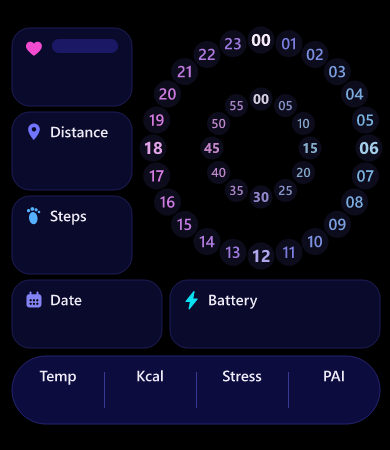
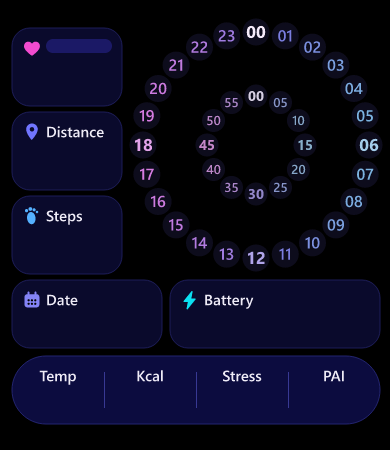
feat: bigger clock

diff --git a/watchface/layout.js b/watchface/layout.js
@@ -31,15 +31,15 @@ export const TEMP_DEGREE = 'temp/deg.png'
 export const TEMP_NEGATIVE = 'temp/neg.png'
 export const TEMP_INVALID = 'temp/dash.png'
 
-/** Top-left corner of the 66x66 hour chip, per hour. */
-export const HOUR_POS = [[228,21],[252,24],[275,34],[294,49],[309,68],[319,91],[322,115],[319,139],[309,162],[294,181],[275,196],[252,206],[228,209],[204,206],[181,196],[162,181],[147,162],[137,139],[134,115],[137,91],[147,68],[162,49],[181,34],[204,24]]
+/** Top-left corner of the 72x72 hour chip, per hour. */
+export const HOUR_POS = [[220,13],[245,16],[268,26],[288,41],[303,61],[313,84],[316,109],[313,134],[303,157],[288,177],[268,192],[245,202],[220,205],[195,202],[172,192],[152,177],[137,157],[127,134],[124,109],[127,84],[137,61],[152,41],[172,26],[195,16]]
 /** Top-left corner of the 60x60 minute chip, per minute. */
-export const MINUTE_POS = [[231,84],[235,84],[238,85],[242,86],[245,87],[248,89],[251,90],[254,93],[256,95],[259,98],[260,101],[262,104],[263,107],[264,111],[265,114],[265,118],[265,122],[264,125],[263,129],[262,132],[260,135],[259,138],[256,141],[254,143],[251,146],[248,147],[245,149],[242,150],[238,151],[235,152],[231,152],[227,152],[224,151],[220,150],[217,149],[214,147],[211,146],[208,143],[206,141],[203,138],[202,135],[200,132],[199,129],[198,125],[197,122],[197,118],[197,114],[198,111],[199,107],[200,104],[202,101],[203,98],[206,95],[208,93],[211,90],[214,89],[217,87],[220,86],[224,85],[227,84]]
+export const MINUTE_POS = [[226,81],[230,81],[233,82],[237,83],[240,84],[243,86],[246,87],[249,90],[251,92],[254,95],[255,98],[257,101],[258,104],[259,108],[260,111],[260,115],[260,119],[259,122],[258,126],[257,129],[255,132],[254,135],[251,138],[249,140],[246,143],[243,144],[240,146],[237,147],[233,148],[230,149],[226,149],[222,149],[219,148],[215,147],[212,146],[209,144],[206,143],[203,140],[201,138],[198,135],[197,132],[195,129],[194,126],[193,122],[192,119],[192,115],[192,111],[193,108],[194,104],[195,101],[197,98],[198,95],[201,92],[203,90],[206,87],[209,86],[212,84],[215,83],[219,82],[222,81]]
 /** Same sprites, positioned around the centred AOD dial. */
-export const AOD_HOUR_POS = [[162,33],[199,38],[234,52],[264,75],[287,105],[301,140],[306,177],[301,214],[287,249],[264,279],[234,302],[199,316],[162,321],[125,316],[90,302],[60,279],[37,249],[23,214],[18,177],[23,140],[37,105],[60,75],[90,52],[125,38]]
+export const AOD_HOUR_POS = [[159,30],[196,35],[231,49],[261,72],[284,102],[298,137],[303,174],[298,211],[284,246],[261,276],[231,299],[196,313],[159,318],[122,313],[87,299],[57,276],[34,246],[20,211],[15,174],[20,137],[34,102],[57,72],[87,49],[122,35]]
 export const AOD_MINUTE_POS = [[165,98],[174,98],[182,100],[190,102],[198,105],[206,109],[213,114],[220,119],[226,125],[231,132],[236,139],[240,147],[243,155],[245,163],[247,171],[247,180],[247,189],[245,197],[243,205],[240,213],[236,221],[231,228],[226,235],[220,241],[213,246],[206,251],[198,255],[190,258],[182,260],[174,262],[165,262],[156,262],[148,260],[140,258],[132,255],[124,251],[117,246],[110,241],[104,235],[99,228],[94,221],[90,213],[87,205],[85,197],[83,189],[83,180],[83,171],[85,163],[87,155],[90,147],[94,139],[99,132],[104,125],[110,119],[117,114],[124,109],[132,105],[140,102],[148,100],[156,98]]
 
-export const HL_HOUR_BOX = 66
+export const HL_HOUR_BOX = 72
 export const HL_MIN_BOX = 60
 
 /**
@@ -47,7 +47,7 @@ export const HL_MIN_BOX = 60
  * heart-rate gauge or battery wave, the tap target, and the name of the system
  * app that a tap opens.
  */
-export const SLOTS = [{"key":"hr","app":"HR","tap":{"src":"hit/120x78.png","x":12,"y":28,"w":120,"h":78},"value":{"x":24,"y":64,"w":54,"h":36,"size":31,"color":0xf24bcf},"unit":{"x":78,"y":76,"w":48,"h":24,"size":15,"color":0xffffff,"text":"BPM"},"meter":{"name":"hr","x":52,"y":39,"w":66,"h":14},"dataType":"HEART"},{"key":"distance","app":"STATUS","tap":{"src":"hit/120x78.png","x":12,"y":112,"w":120,"h":78},"value":{"x":24,"y":148,"w":64,"h":36,"size":31,"color":0xf24bcf},"unit":{"x":88,"y":160,"w":36,"h":24,"size":15,"color":0x7175ff,"text":"KM"},"meter":null,"dataType":"DISTANCE"},{"key":"steps","app":"STATUS","tap":{"src":"hit/120x78.png","x":12,"y":196,"w":120,"h":78},"value":{"x":24,"y":232,"w":96,"h":36,"size":31,"color":0xf24bcf},"unit":null,"meter":null,"dataType":"STEP"},{"key":"date","app":"CALENDAR","tap":{"src":"hit/150x68.png","x":12,"y":280,"w":150,"h":68},"value":{"x":24,"y":306,"w":126,"h":36,"size":29,"color":0xf24bcf},"unit":null,"meter":null,"dataType":null},{"key":"battery","app":"SETTING","tap":{"src":"hit/210x68.png","x":170,"y":280,"w":210,"h":68},"value":{"x":182,"y":306,"w":52,"h":36,"size":29,"color":0x0be0f2},"unit":null,"meter":{"name":"battery","x":234,"y":311,"w":134,"h":26},"dataType":"BATTERY"}]
+export const SLOTS = [{"key":"hr","app":"HR","tap":{"src":"hit/110x78.png","x":12,"y":28,"w":110,"h":78},"value":{"x":22,"y":64,"w":52,"h":36,"size":31,"color":0xf24bcf},"unit":{"x":76,"y":76,"w":40,"h":24,"size":14,"color":0xffffff,"text":"BPM"},"meter":{"name":"hr","x":46,"y":39,"w":66,"h":14},"dataType":"HEART"},{"key":"distance","app":"STATUS","tap":{"src":"hit/110x78.png","x":12,"y":112,"w":110,"h":78},"value":{"x":22,"y":148,"w":62,"h":36,"size":31,"color":0xf24bcf},"unit":{"x":86,"y":160,"w":30,"h":24,"size":14,"color":0x7175ff,"text":"KM"},"meter":null,"dataType":"DISTANCE"},{"key":"steps","app":"STATUS","tap":{"src":"hit/110x78.png","x":12,"y":196,"w":110,"h":78},"value":{"x":22,"y":232,"w":90,"h":36,"size":31,"color":0xf24bcf},"unit":null,"meter":null,"dataType":"STEP"},{"key":"date","app":"CALENDAR","tap":{"src":"hit/150x68.png","x":12,"y":280,"w":150,"h":68},"value":{"x":22,"y":306,"w":126,"h":36,"size":29,"color":0xf24bcf},"unit":null,"meter":null,"dataType":null},{"key":"battery","app":"SETTING","tap":{"src":"hit/210x68.png","x":170,"y":280,"w":210,"h":68},"value":{"x":180,"y":306,"w":52,"h":36,"size":29,"color":0x0be0f2},"unit":null,"meter":{"name":"battery","x":234,"y":311,"w":134,"h":26},"dataType":"BATTERY"}]
 
 /** The four cells inside the bottom pill, same shape as SLOTS. */
 export const PILL_CELLS = [{"key":"temp","app":"WEATHER","dataType":"WEATHER_CURRENT","tap":{"x":12,"y":356,"w":92,"h":68,"src":"hit/92x68.png"},"value":{"x":12,"y":382,"w":92,"h":36,"size":28}},{"key":"kcal","app":"STATUS","dataType":"CAL","tap":{"x":104,"y":356,"w":92,"h":68,"src":"hit/92x68.png"},"value":{"x":104,"y":382,"w":92,"h":36,"size":28}},{"key":"stress","app":"PRESSURE","dataType":"STRESS","tap":{"x":196,"y":356,"w":92,"h":68,"src":"hit/92x68.png"},"value":{"x":196,"y":382,"w":92,"h":36,"size":28}},{"key":"pai","app":"PAI","dataType":"PAI_DAILY","tap":{"x":288,"y":356,"w":92,"h":68,"src":"hit/92x68.png"},"value":{"x":288,"y":382,"w":92,"h":36,"size":28}}]

diff --git a/watchface/index.js b/watchface/index.js
@@ -526,7 +526,10 @@ WatchFace({
     const stress = this.stress.getCurrent()
     this.setText('stress', stress && stress.value > 0 ? '' + stress.value : '--')
 
-    this.setText('pai', '' + (this.pai.getToday() || 0))
+    // getToday() is only what was earned since midnight, so it reads 0 for
+    // most of the day. getTotal() is the rolling 7-day score — the number the
+    // watch's own PAI screen shows.
+    this.setText('pai', '' + Math.round(this.pai.getTotal() || 0))
   },
 
   onDestroy() {

diff --git a/README.md b/README.md
@@ -6,9 +6,14 @@ aparelho: `9765120`, `9765121` e `10158337`.
 O mostrador fica ancorado no canto superior direito e é lido como duas órbitas:
 o anel externo carrega as 24 horas, o anel interno as marcas de 5 minutos, e um
 marcador iluminado indica a posição atual em cada um. Os dois crescem *para
-dentro*, em direção ao centro: a borda externa do marcador da hora é o que a
-tela limita (125 px do centro), e daí para dentro há espaço para 62 px de
-diâmetro na hora e 56 px no minuto, encostando um no outro sem se sobrepor.
+dentro*, em direção ao centro.
+
+O que limita tudo é a borda externa do marcador da hora: os blocos terminam em
+`x=122` e a faixa do meio começa em `y=280`, o que deixa 130 px de alcance a
+partir do centro. Daí para dentro cabem 68 px de diâmetro na hora e 56 px no
+minuto, encostando um no outro sem se sobrepor. Para dar mais mostrador, o
+caminho é estreitar os blocos — cada pixel que sai da coluna da esquerda vira
+meio pixel de raio.
 
 Os indicadores são blocos: frequência cardíaca, distância e passos à esquerda;
 data e bateria na faixa do meio; temperatura, calorias, estresse e PAI na

diff --git a/.claude/skills/amazfit-bip6-watchface/SKILL.md b/.claude/skills/amazfit-bip6-watchface/SKILL.md
@@ -466,6 +466,10 @@ others, and find the handle by enumerating windows for the title
 - Body text 15 px, values 27–31 px, hero numbers 32–36 px.
 - Verify against 00:00 and 12:30 when two rotating elements can align — that is
   when overlapping elements collide.
+- A round dial is bounded by whatever crowds it on **all four** sides, and it
+  grows by twice what you free up on the tightest one. Work out the reach
+  first (`min(edge - neighbour)` horizontally and vertically), then derive the
+  radii from it, rather than picking radii and hoping they fit.
 
 ---
 
